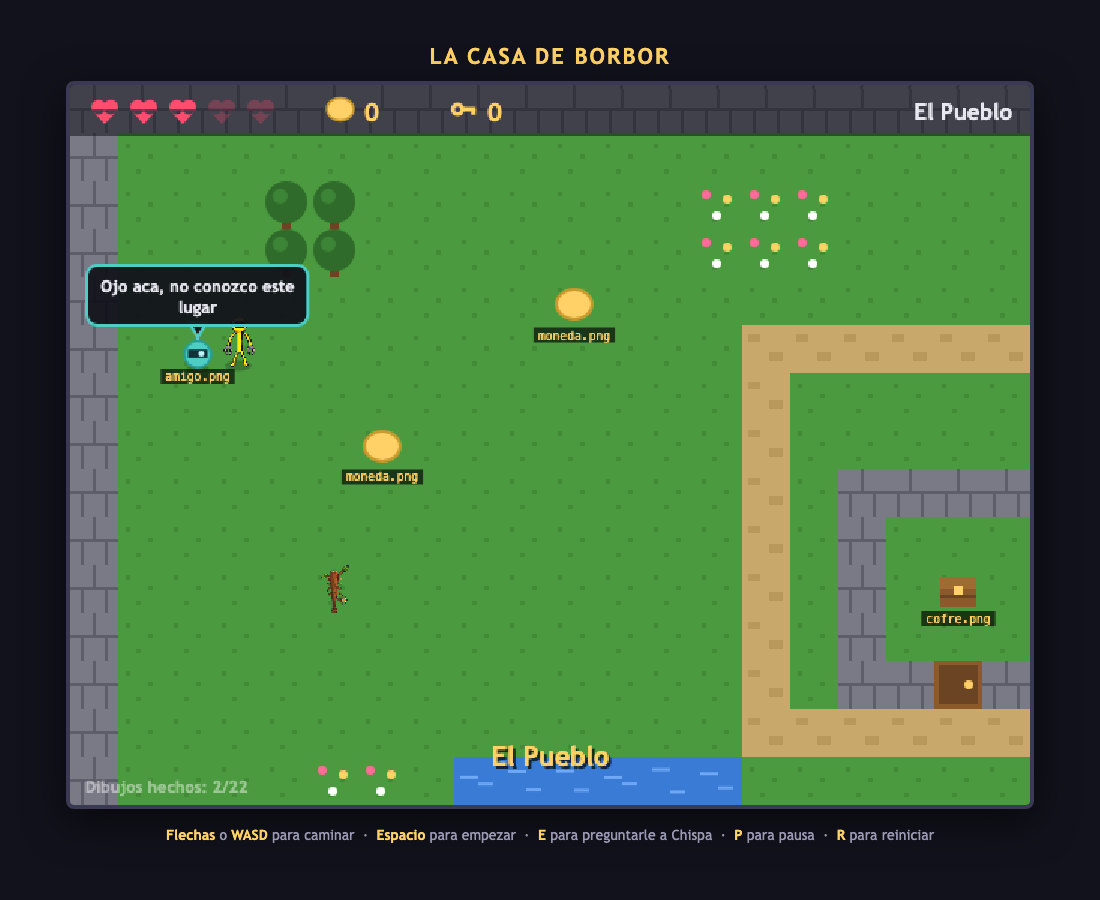
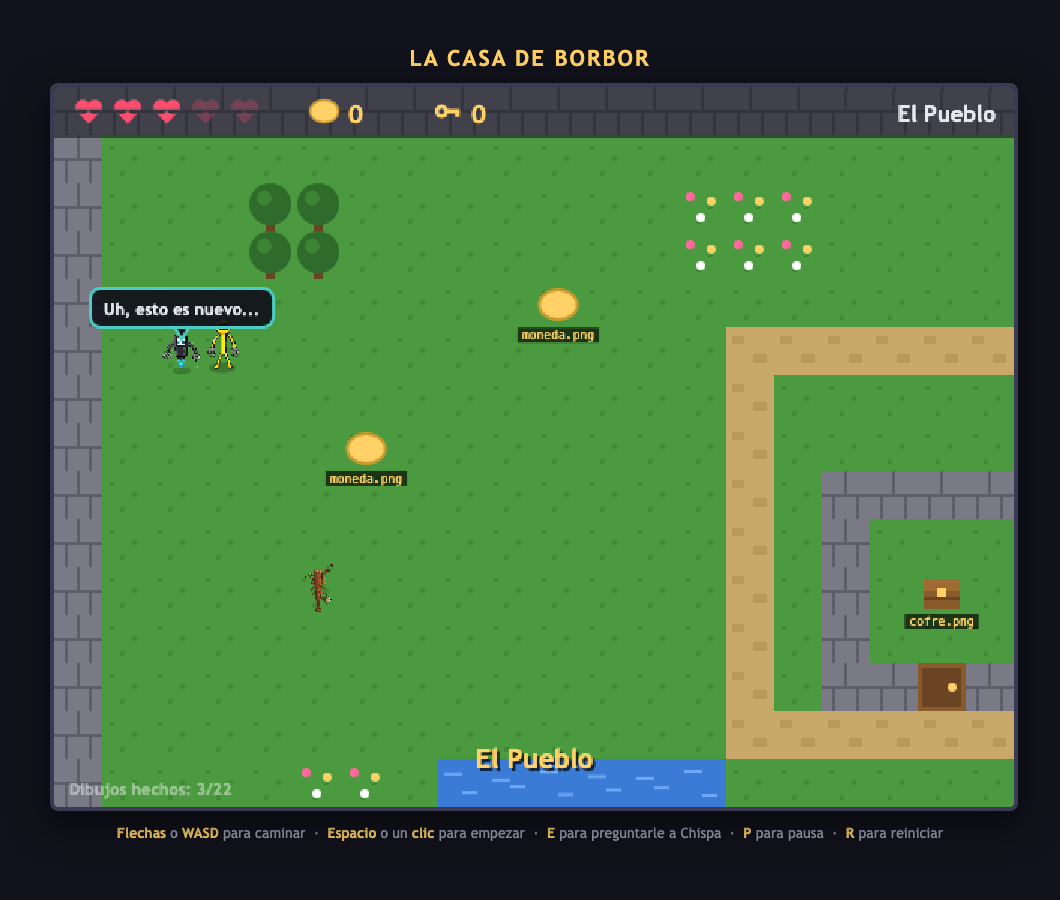
Chispa ya tiene cara: entra su dibujo y ahora vuela de verdad
El sprite del amigo (un robot con propulsor, hecho por BorBor) reemplaza al
dibujo de reserva. Marcador: 3 de 22.

Como vuela en vez de caminar, el flote pasa a usar un reloj continuo en vez
de 'paso', que solo avanza mientras se mueve: antes se quedaba duro en el aire
al frenar. Y la sombra se achica cuando sube, al reves que la de BorBor, que
se queda quieta porque el pisa el piso.

Captura del README actualizada, ahora con Chispa.

diff --git a/js/amigo/amigo.js b/js/amigo/amigo.js
@@ -165,13 +165,36 @@ const Amigo = {
   dibujar() {
     if (!CONFIG.AMIGO_ACTIVADO) return;
 
-    const flote = Math.sin(this.paso) * 2;
-    const tam = 26;
+    /* ---------------------------------------------------------
+       CHISPA VUELA
+       ---------------------------------------------------------
+       Tiene un propulsor en vez de patas, asi que flota SIEMPRE,
+       aunque este quieta. Por eso el flote usa Reservas.tiempo,
+       que es un reloj que nunca para, y no "paso", que solo
+       avanza mientras camina.
+
+       Es al reves que BorBor: el rebota porque DA PASOS, asi que
+       si esta quieto no rebota nada. Chispa no da pasos: flota.
+
+       Un detalle asi de chiquito es lo que hace que un personaje
+       se sienta vivo y otro parezca una calcomania.
+       --------------------------------------------------------- */
+    const flote = Math.sin(Reservas.tiempo / 16) * CONFIG.AMIGO_FLOTA
+                + Math.sin(this.paso) * 1.2;        // y se sacude un poco mas al moverse
+
+    const tam = CONFIG.TAMANIO_AMIGO;
     const dibX = this.x + this.w / 2 - tam / 2;
     const dibY = this.y + this.h - tam;
 
+    /* La sombra se achica cuando Chispa sube y se agranda cuando baja,
+       como pasa de verdad con una luz de arriba. Es el mismo truco que
+       con BorBor, pero al reves: la de el se queda quieta porque pisa,
+       la de Chispa cambia de tamanio porque vuela. */
     if (CONFIG.SOMBRA) {
-      Dibujante.sombra(this.x + this.w / 2, this.y + this.h - 1, this.w * 0.85, 6, 0.18);
+      const altura = (flote + CONFIG.AMIGO_FLOTA) / (CONFIG.AMIGO_FLOTA * 2); // 0 a 1
+      const encogida = 1 - altura * 0.25;
+      Dibujante.sombra(this.x + this.w / 2, this.y + this.h - 1,
+                       this.w * 0.8 * encogida, 5.5 * encogida, 0.2);
     }
 
     Dibujante.dibujar(

diff --git a/js/config.js b/js/config.js
@@ -50,6 +50,8 @@ const CONFIG = {
   AMIGO_ACTIVADO: true,
   NOMBRE_AMIGO: "Chispa",
   AMIGO_VELOCIDAD: 2.6,              // un toque mas rapido que vos, para alcanzarte
+  TAMANIO_AMIGO: 28,                 // que tan grande se dibuja
+  AMIGO_FLOTA: 2.5,                  // cuanto sube y baja en el aire (0 = se posa)
   AMIGO_DISTANCIA: 42,               // a que distancia te sigue, en pixeles
   AMIGO_PENSAMIENTOS_POR_SEGUNDO: 6, // NO piensa 60 veces por segundo: no hace falta
   AMIGO_PAUSA_ENTRE_FRASES: 2800,    // milisegundos callado entre frase y frase

diff --git a/guia/00-empezar-aca.md b/guia/00-empezar-aca.md
@@ -25,7 +25,7 @@ Jugalo hasta ganar. Fijate cuántas monedas podés juntar.
 Abajo dice algo así:
 
 ```
-Tus dibujos en el juego: 2 de 22
+Tus dibujos en el juego: 3 de 22
 ```
 
 **Ese es el marcador de verdad.**
@@ -34,8 +34,8 @@ Todo lo que ves ahora mismo — el héroe, las monedas, los árboles — no son 
 Son formas que la computadora arma con código: "hacé un círculo acá, pintalo de verde".
 Son de relleno, hasta que lleguen los tuyos.
 
-Ya hay **2**: el **robot amarillo** (que sos vos) y el **garrote**, los dos hechos por vos.
-Y falta uno nuevo: **Chispa**, tu amigo robot. Andá a buscarlo en el mapa —
+Ya hay **3**, los tres hechos por vos: el **robot amarillo** (que sos vos),
+el **garrote** y **Chispa**, tu amigo volador. Andá a buscarlo en el mapa —
 está a la izquierda, un poco más abajo de donde empezás. Agarralo y tocá a un baboso.
 
 Tu misión es llegar a **22 de 22**. Cuando llegues, el juego va a ser tuyo entero.

diff --git a/guia/07-el-amigo.md b/guia/07-el-amigo.md
@@ -5,6 +5,13 @@ enemigos y te felicita cuando juntás una llave.
 
 Apretá **E** para preguntarle algo.
 
+Chispa **vuela**: tiene un propulsor en vez de patas. Por eso flota siempre,
+aunque esté quieta. Fijate que es **al revés que BorBor**: él rebota porque
+*da pasos*, así que quieto no rebota nada. Ella no da pasos, así que nunca para.
+
+Un detalle así de chiquito es lo que hace que un personaje se sienta vivo
+y otro parezca una calcomanía. Está en `js/amigo/amigo.js`, función `dibujar()`.
+
 Y ahora lo importante: **Chispa no es magia, y vas a entender exactamente
 cómo piensa.** Su cerebro son unas 200 líneas que podés leer.
 

diff --git a/guia/03-tus-dibujos.md b/guia/03-tus-dibujos.md
@@ -44,7 +44,7 @@ Los nombres tienen que ser **exactos**. Para la computadora, `heroe.png`,
 
 `moneda.png` · `llave.png` · `cofre.png` · `corazon.png` · `garrote.png` ✅
 
-Y en `imagenes/personajes/`: `amigo.png` — Chispa, el robot que te acompaña.
+Y en `imagenes/personajes/`: `amigo.png` ✅ — Chispa, el robot volador.
 
 ### 🧱 Piso y paredes → `imagenes/suelo/`
 
@@ -155,5 +155,5 @@ Hacé **solo `heroe.png`**. Es el que más se ve y el que más cambia el juego.
 Después, cuando quieras seguir, la pantalla de inicio te va llevando el marcador:
 
 ```
-Tus dibujos en el juego: 2 de 22
+Tus dibujos en el juego: 3 de 22
 ```

diff --git a/README.md b/README.md
@@ -28,7 +28,7 @@ Eso no es una limitación — es el diseño:
 
 - El juego **nunca se rompe** por un archivo que falta. Un chico no puede quedar trabado.
 - Cada PNG que agrega **reemplaza** una figura de relleno, y se ve al instante.
-- La portada lleva el marcador: `Tus dibujos en el juego: 2 de 22`.
+- La portada lleva el marcador: `Tus dibujos en el juego: 3 de 22`.
 - Y deja clarísima la lección más importante: **el dibujo y la lógica son
   cosas separadas**. El juego no ve dibujos: ve rectángulos con números.
 

diff --git a/imagenes/donde-va-cada-dibujo.md b/imagenes/donde-va-cada-dibujo.md
@@ -10,7 +10,7 @@ imagenes/
 │     heroe.png          ✅ ¡YA ESTÁ! el robot amarillo
 │     heroe-1.png        ← opcional: paso 1 de la caminata
 │     heroe-2.png        ← opcional: paso 2 de la caminata
-│     amigo.png          Chispa, el robot que te acompaña
+│     amigo.png          ✅ ¡YA ESTÁ! Chispa, el robot volador
 │     heroe-abajo.png    ← opcional: de frente
 │     heroe-arriba.png   ← opcional: de espaldas
 │     heroe-izq.png      ← opcional: mirando a la izquierda

diff --git a/guia/05-misiones.md b/guia/05-misiones.md
@@ -101,7 +101,7 @@ Eso es porque `js/sprites.js` ya estaba preparado para buscarlos.
 Dejar el código listo para cosas que todavía no existen es una habilidad enorme.
 
 ### Misión 9: completá los 21
-Hasta que la portada diga `22 de 22`. Ya tenés 2: el héroe y el garrote. La IA te puede ayudar con los pisos
+Hasta que la portada diga `22 de 22`. Ya tenés 3: el héroe, el garrote y Chispa. La IA te puede ayudar con los pisos
 (mirá `taller/prompts-ia.md`), pero **los personajes hacelos vos**.
 
 ---

diff --git a/guia/06-animacion.md b/guia/06-animacion.md
@@ -156,7 +156,7 @@ heroe-der-1.png      heroe-der-2.png
 
 El juego busca primero los de la dirección, y si no están, usa los generales.
 
-> Estos cuadros **no cuentan** en el marcador de la portada (`2 de 22`).
+> Estos cuadros **no cuentan** en el marcador de la portada (`3 de 22`).
 > Son un extra: el juego anda perfecto sin ellos.
 
 ---
